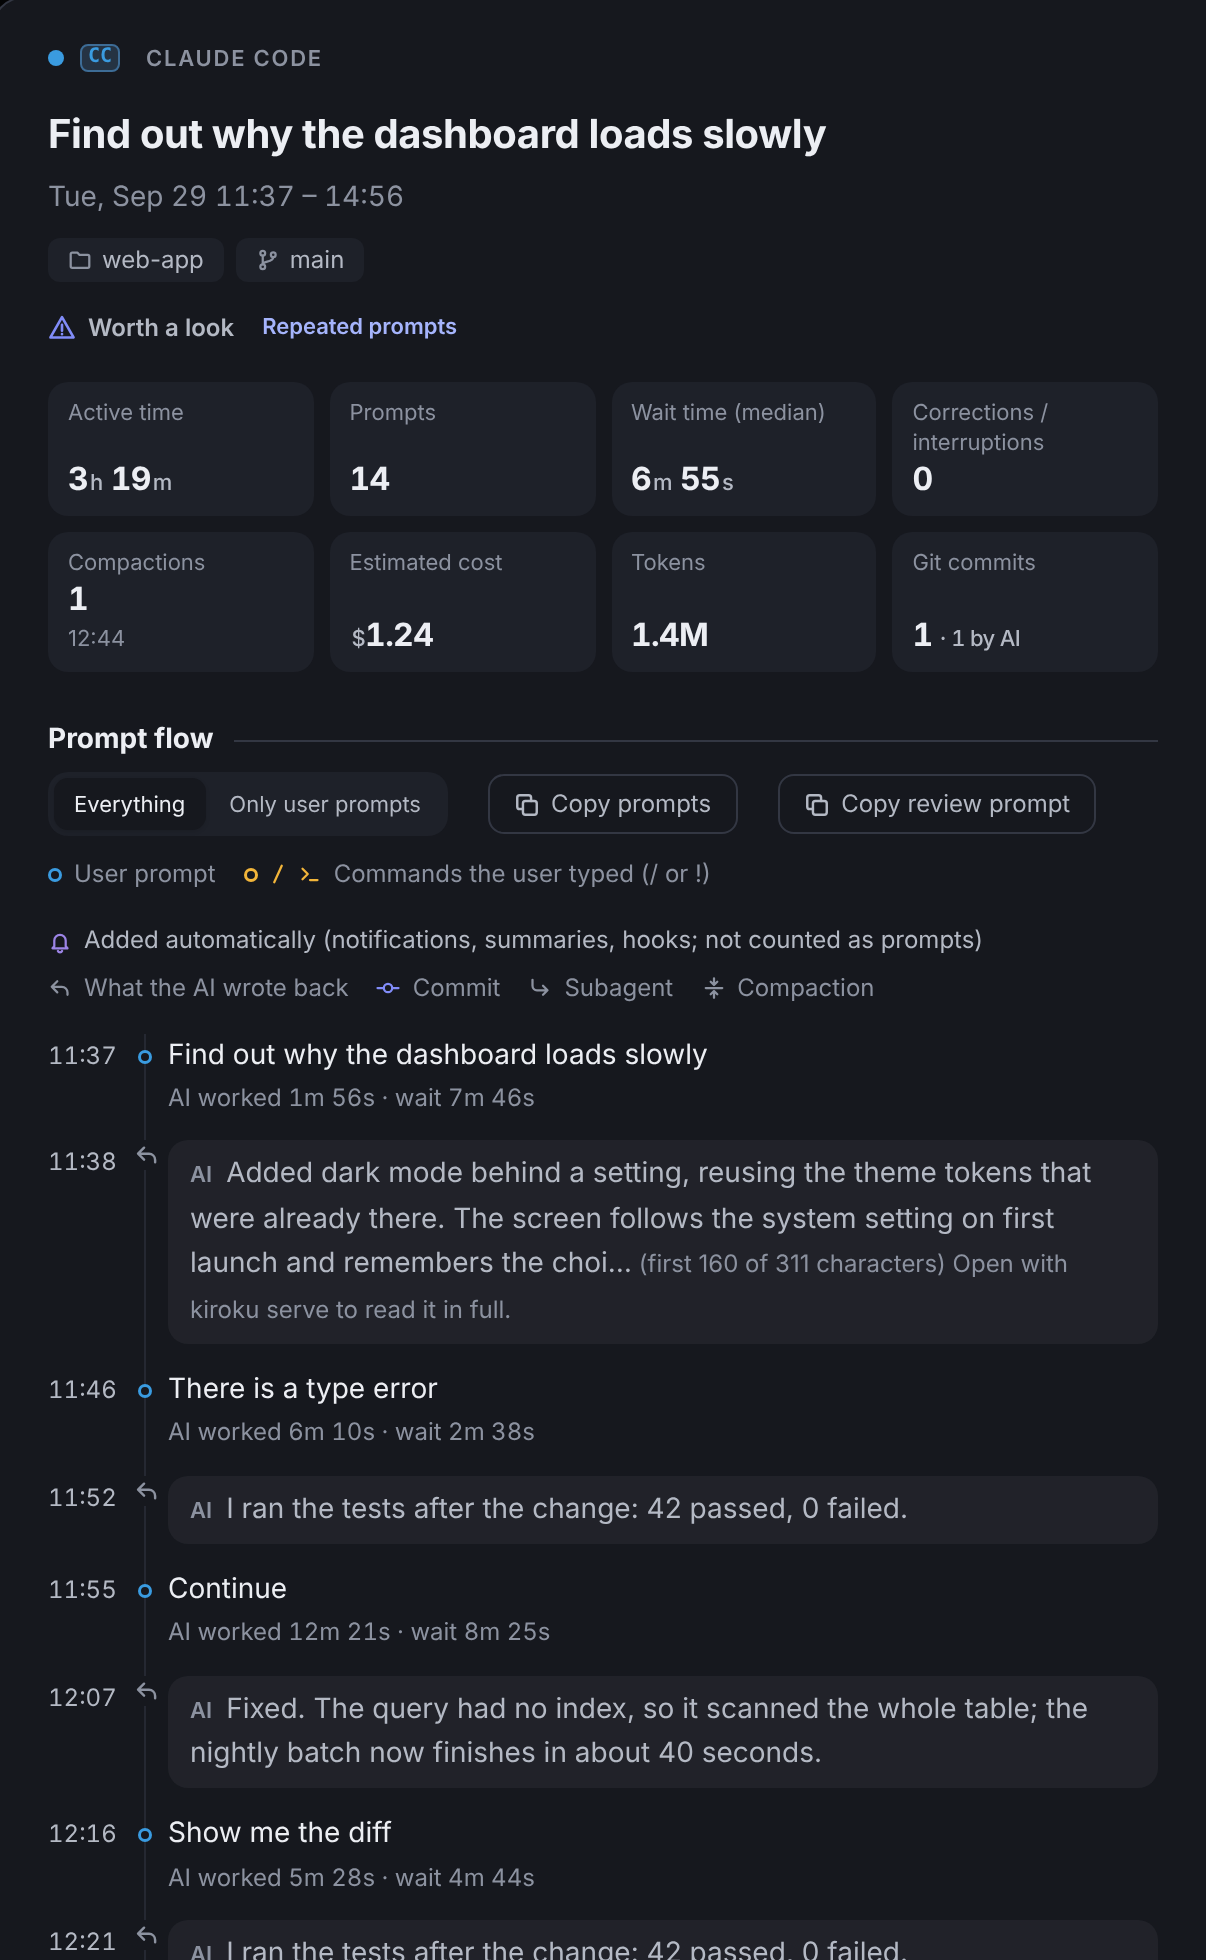
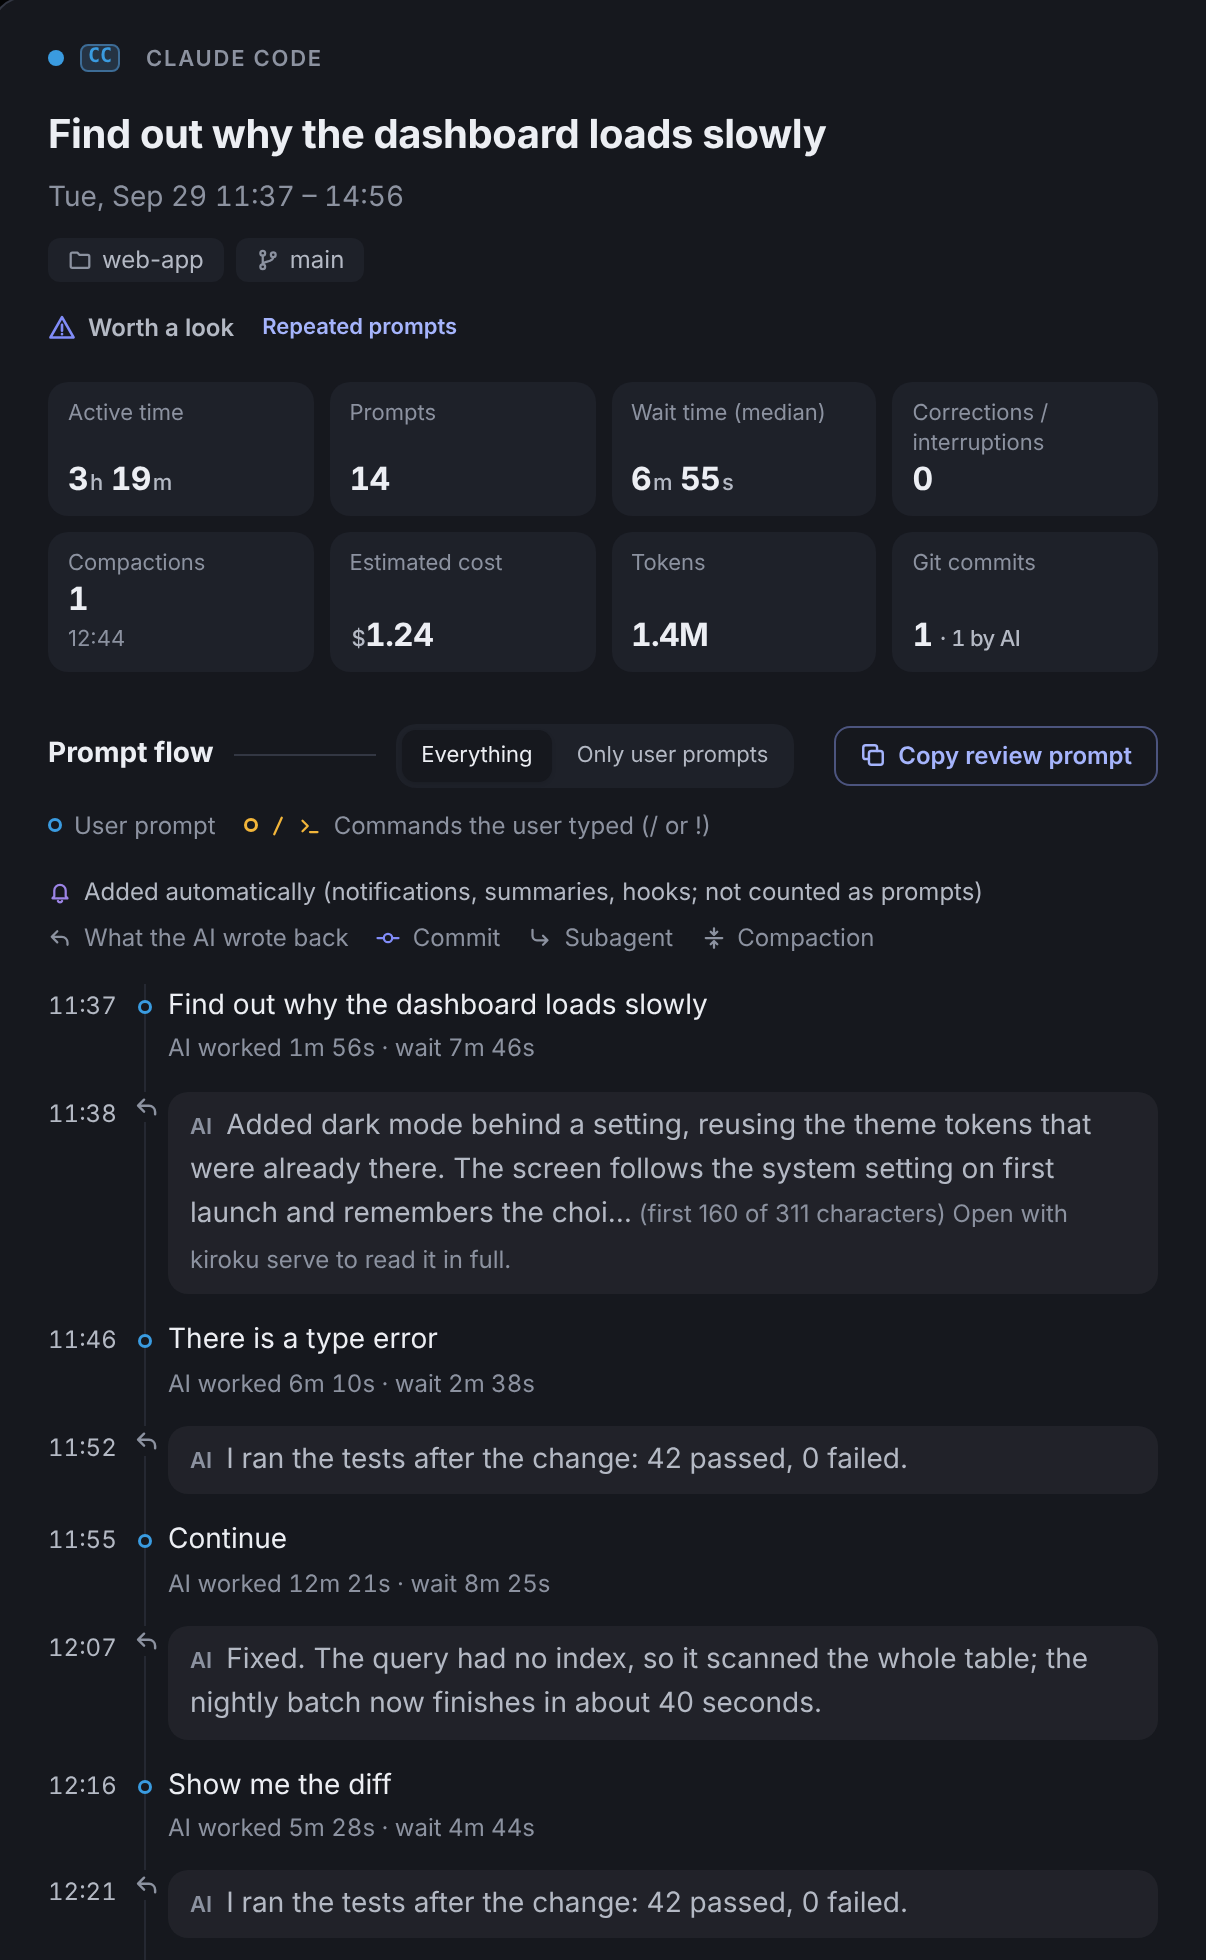
Move Resume to the right column, drop Copy prompts, and make the review prompt stand out
In session details on wide screens, the resume command now sits at the
top of the right column, next to what the session left behind; on
narrow screens (one column) it stays at the top, under the title. The
"Copy prompts" button is gone, since "Copy review prompt" points an
agent at the full prompts in the history file. "Copy review prompt"
uses the same accent as "Copy weekly report prompt" (now a shared
.pill.acc style). The smoke test checks all three at every width, and
docs/session.png is retaken because it showed the old buttons.

diff --git a/internal/web/style.css b/internal/web/style.css
@@ -343,7 +343,7 @@ a.pill{display:inline-flex;align-items:center;text-decoration:none}
 .rvhead p{margin:0;color:var(--ink-3);font-size:var(--fs-sm)}
 .rvhead .pill{margin-left:auto;align-self:center}
 .rpthint{margin:-8px 0 16px}
-.rvhead .rpt{color:var(--acc-ink);border-color:color-mix(in oklab,var(--acc) 35%,var(--rule-2));font-weight:600}
+.pill.acc{color:var(--acc-ink);border-color:color-mix(in oklab,var(--acc) 35%,var(--rule-2));font-weight:600} /* AI に渡すプロンプトのボタン（週報・振り返り）は、ほかのボタンより少し目立たせる */
 .rvgrid.srgrid{grid-template-columns:minmax(0,1.4fr) minmax(0,1fr)}
 #review{scroll-margin-top:64px}
 .srow{display:grid;grid-template-columns:64px minmax(0,1fr);gap:12px;width:100%;text-align:left;padding:10px 8px;border-top:1px solid var(--rule)}
@@ -488,7 +488,7 @@ h3::after{content:"";flex:1;height:1px;background:var(--rule)}
 /* 「Prompt flow」の見出しと、出し方の切り替え・コピーを 1 行に並べる（見出しの線のあとに右寄せ） */
 .flowhead{display:flex;flex-wrap:wrap;align-items:center;gap:8px 10px;margin:26px 0 10px}
 .flowhead h3{flex:1 1 140px;margin:0}
-/* 表示の切り替えと「Copy prompts」は、押したときの重さが違うので離す（コピーはプロンプトの本文を持ち出す） */
+/* 表示の切り替えと「Copy review prompt」は、押したときの重さが違うので離す（コピーはプロンプトと履歴の場所を持ち出す） */
 .flowbar{display:flex;flex-wrap:wrap;align-items:center;gap:8px 20px}
 .flowbar .segc button{height:26px;font-size:var(--fs-xs)}
 .tl .pfull{white-space:pre-wrap}
@@ -507,7 +507,8 @@ button.more{display:block;text-align:left}
 .files .fp>span{direction:ltr;unicode-bidi:plaintext}
 .files .fp a:focus-visible,.drawer .gfiles span>a:focus-visible{outline-offset:-2px} /* 行は overflow:hidden なので、枠を内側に描いて切れないように */
 .drawer .gfiles span>.ic{color:var(--ink-3);margin-right:6px;vertical-align:-2px}
-.drawer .dresume{margin-top:14px}.drawer .dresume>h3:first-child{margin-top:0} /* 再開のコマンドは、画面の幅によらず、詳細のいちばん上に */
+.drawer .dresume{margin-top:14px}.drawer .dresume>h3:first-child{margin-top:0}
+.drawer .dresume.dside{display:none} /* 再開のコマンドは、1 列の画面では詳細のいちばん上に、2 列の画面では右の列のいちばん上に */
 
 /* エージェント別 */
 .ngroups{margin-top:8px}
@@ -560,6 +561,7 @@ body.open .drawer{opacity:1;visibility:visible;pointer-events:auto;transform:tra
   .drawer .dcols{display:grid;grid-template-columns:minmax(0,1.3fr) minmax(0,1fr);gap:0 40px;margin-top:18px}
   .drawer .dcol>:first-child{margin-top:0}
   .drawer .dcol+.dcol{border-left:1px solid var(--rule);padding-left:40px}
+  .drawer .dresume.dtop{display:none}.drawer .dresume.dside{display:block;margin-top:0}
 }
 /* 戻る・閉じるは、中身の 1 行目（種類の小見出し）の右に重ねる。ボタンだけの空いた帯を作らない。中身をスクロールしても押せるよう、パネルの上に固定する */
 .drawer .dh{position:absolute;top:10px;right:14px;z-index:2;display:flex;align-items:center;gap:4px;padding:2px;border-radius:11px;background:color-mix(in oklab,var(--surface) 88%,transparent);backdrop-filter:blur(6px)}

diff --git a/internal/web/js/summary.js b/internal/web/js/summary.js
@@ -2,7 +2,7 @@
 /* ── 週次・月次サマリー：① プロジェクト別 ② コストとアウトプット ③ 時間 ④ AI ⑤ かたち ⑥ 改善案を聞く。基準を超えた指標には、その場に印と推移を付ける ── */
 function summary(){
   const {S:w, P:pw} = period(), R = $("#review"), M = st.mode === "month", unit = M ? "月" : "週";
-  const head = `<div class="rvhead"><h2>${M ? "Monthly summary" : "Weekly summary"}</h2><p>Rough figures for reflecting on how you work. They are not for comparing people or for evaluations.</p>${w ? copyBtn(`Copy ${M ? "monthly" : "weekly"} report prompt`, `id="rptcopy" title="A prompt that asks an AI agent on this computer to write your ${M ? "monthly" : "weekly"} report from your history"`, "pill rpt") : ""}</div>${w ? `<p class="note rpthint">${`The ${M ? "monthly" : "weekly"} report prompt is for an AI agent on this computer, such as Claude Code or Codex. It points the agent to this ${M ? "month" : "week"}'s history files, and the agent reads them. kiroku itself sends nothing.`}</p>` : ""}`;
+  const head = `<div class="rvhead"><h2>${M ? "Monthly summary" : "Weekly summary"}</h2><p>Rough figures for reflecting on how you work. They are not for comparing people or for evaluations.</p>${w ? copyBtn(`Copy ${M ? "monthly" : "weekly"} report prompt`, `id="rptcopy" title="A prompt that asks an AI agent on this computer to write your ${M ? "monthly" : "weekly"} report from your history"`, "pill acc") : ""}</div>${w ? `<p class="note rpthint">${`The ${M ? "monthly" : "weekly"} report prompt is for an AI agent on this computer, such as Claude Code or Codex. It points the agent to this ${M ? "month" : "week"}'s history files, and the agent reads them. kiroku itself sends nothing.`}</p>` : ""}`;
   const WK = $("#worth"); $("#sres").hidden = true; $("#sres").innerHTML = "";
   if (!w){ WK.hidden = true; R.innerHTML = foot(); return; } // 記録がないことは、上の数字とカレンダーで言っている（3 度言わない）
   const longest = Math.max(0, ...w.focus.map(b=>b.min));

diff --git a/docs/guide.md b/docs/guide.md
@@ -76,7 +76,7 @@ The old forms `kiroku --serve`, `--json`, `-o` and `--weekly` / `--monthly` have
 - Each day in the calendar shows its own figures (in the day headings of the week calendar and in each day of the month calendar). Point at a bar, band or point in any chart (or touch it) to see the values for that day or item
 - "Worth a look", just under the key figures, lists the metrics that crossed a threshold in priority order; press one to open it in a dialog in the middle of the screen, without leaving where you are: what was observed, why it matters, its 8-week trend, why it was flagged, the related sessions (press one to open its details), the threshold, and what the metric is, what it doesn't tell you and what to try. `Esc`, the × in its top-right corner or a click outside the dialog returns to the link you pressed
 - "Color by" Project / Branch / Agent is the selector at the start of the legend. The numbers in the legend are active time, split between sessions that ran at the same time like in "① By project"; click an item to show or hide it. In the week calendar, "Zoom" − + at the right end of the legend (or `+` `−`) changes the height of an hour. Until you zoom, each week picks the height (44px, or 36px when needed) that fits its working hours, from the morning start to the latest end, in the calendar; after you zoom, your choice is kept
-- Click a bar to show its details. The resume command is at the top, under the title, at any window width; then come the prompt flow with times, subagents and files changed (each path is a link: to the commit on the remote when there is one, otherwise to the file on this computer in the HTML file), with models, tools and the agent's own metrics folded under one line on the right. On wide screens, numbers and the prompt flow (what was done) are on the left, and commits, pull requests and files changed (what was left behind) are on the right
+- Click a bar to show its details. The resume command is at the top, under the title (on wide screens, at the top of the right column); then come the prompt flow with times, subagents and files changed (each path is a link: to the commit on the remote when there is one, otherwise to the file on this computer in the HTML file), with models, tools and the agent's own metrics folded under one line on the right. On wide screens, numbers and the prompt flow (what was done) are on the left, and commits, pull requests and files changed (what was left behind) are on the right
   - When the session is behind a metric flagged in "Worth a look" for the period shown, those metrics are listed under the title; press one to open the same dialog
   - The prompt flow puts your prompts and what happened between them (commits, pull requests created, usage limit hits with the reset time the message gave, interruptions and subagents starting) in one line, in time order. Opening a commit from the flow and pressing back returns to where you were reading
   - Each prompt shows how long the AI worked (from the prompt to the AI's last activity before the next prompt) and the wait (from there to the next prompt), and a break of more than 30 minutes is marked like "13:50–15:20: 1h 30m gap" (both are estimates from the history's timestamps; time while a subagent was running is not counted as a wait)
@@ -84,8 +84,8 @@ The old forms `kiroku --serve`, `--json`, `-o` and `--weekly` / `--monthly` have
   - Things that entered the conversation without you typing them (background task notifications, `<system-reminder>`, hook and command output, automatic conversation summaries, instructions sent by another agent or a schedule, the expanded text of a slash command, the steering rules and environment context older Kiro IDE versions add to your message and so on) are not counted as prompts and appear in the flow in another color, labeled with their kind
   - The AI's reply follows each prompt, with its own time, so a session reads as the conversation it was: the last thing the AI wrote back to you in that turn, in its own words, not its thinking, its tool calls or their output. The HTML keeps the first 160 characters, and when opened with `kiroku serve`, "Load the full reply" reads it to the end. A turn where the AI only ran tools, or whose words the agent does not record, has no reply line
   - The flow shows 30 prompts first, and "Show N more prompts" shows the rest. "Show all" opens a long prompt. The HTML keeps the first 400 characters of each prompt; longer ones show "Read more (N characters)", and when opened with `kiroku serve`, "Load the full prompt" reads it to the end
-  - "Only user prompts" above the flow narrows it to what the user typed, and hides the replies too, but only on screen: they are still in the HTML, so a file you share still has them in it. "Copy prompts" copies just the prompts as Markdown with times, never the replies
-  - "Copy review prompt", next to "Copy prompts", copies a prompt that asks an AI agent on this computer (such as Claude Code or Codex) how to improve the way you prompted and split the work
+  - "Only user prompts" above the flow narrows it to what the user typed, and hides the replies too, but only on screen: they are still in the HTML, so a file you share still has them in it.
+  - "Copy review prompt", next to "Everything" / "Only user prompts", copies a prompt that asks an AI agent on this computer (such as Claude Code or Codex) how to improve the way you prompted and split the work
     - It names the session's history file, so the agent can read your full prompts, the AI's replies and its tool calls, and asks it to read only that file. For Amazon Q and the legacy Kiro CLI, the prompts are copied in instead
     - It adds what kiroku knows beyond the file: the numbers, and the prompt flow with interruptions, commits and other events between your prompts
     - It asks the agent to quote the prompt behind each point, and to tell missing context apart from a hard task or the AI's own mistake

diff --git a/README.md b/README.md
@@ -27,7 +27,7 @@ The installer checks the download against `checksums.txt` and, with the [GitHub 
 
 **Every session on a calendar.** When, in which project and what you asked, by week or month, with each day's active time, tokens, cost and Git commits.
 
-**The whole story of a session.** The prompt flow with times, separating what you typed from what entered on its own, with commands, commits, pull requests, subagents and interruptions in between, and the AI's reply after each prompt, so a session reads as the conversation it was. Copy your prompts, or a prompt that asks an AI agent on your computer to review the session from its history file.
+**The whole story of a session.** The prompt flow with times, separating what you typed from what entered on its own, with commands, commits, pull requests, subagents and interruptions in between, and the AI's reply after each prompt, so a session reads as the conversation it was. Copy a prompt that asks an AI agent on your computer to review the session from its history file.
 
 <img src="docs/session.png" alt="Session details (dummy data)" width="560">
 

diff --git a/CHANGELOG.md b/CHANGELOG.md
@@ -2,6 +2,13 @@
 
 Notable changes to kiroku, in the style of [Keep a Changelog](https://keepachangelog.com/). Add changes under `## Unreleased`; its contents decide the next version ([Semantic Versioning](https://semver.org/), see `sh tools/next-version.sh`), and each release on GitHub uses its section here as the release notes.
 
+## Unreleased
+
+### Changed
+
+- Session details: the resume command is now at the top of the right column on wide screens (on narrow screens it stays at the top, under the title). "Copy review prompt" stands out a little more, like "Copy weekly report prompt"
+- Session details: "Copy prompts" is gone. "Copy review prompt" names the session's history file for an AI agent, which reads the full prompts there
+
 ## v0.28.1 - 2026-10-09
 
 ### Security
